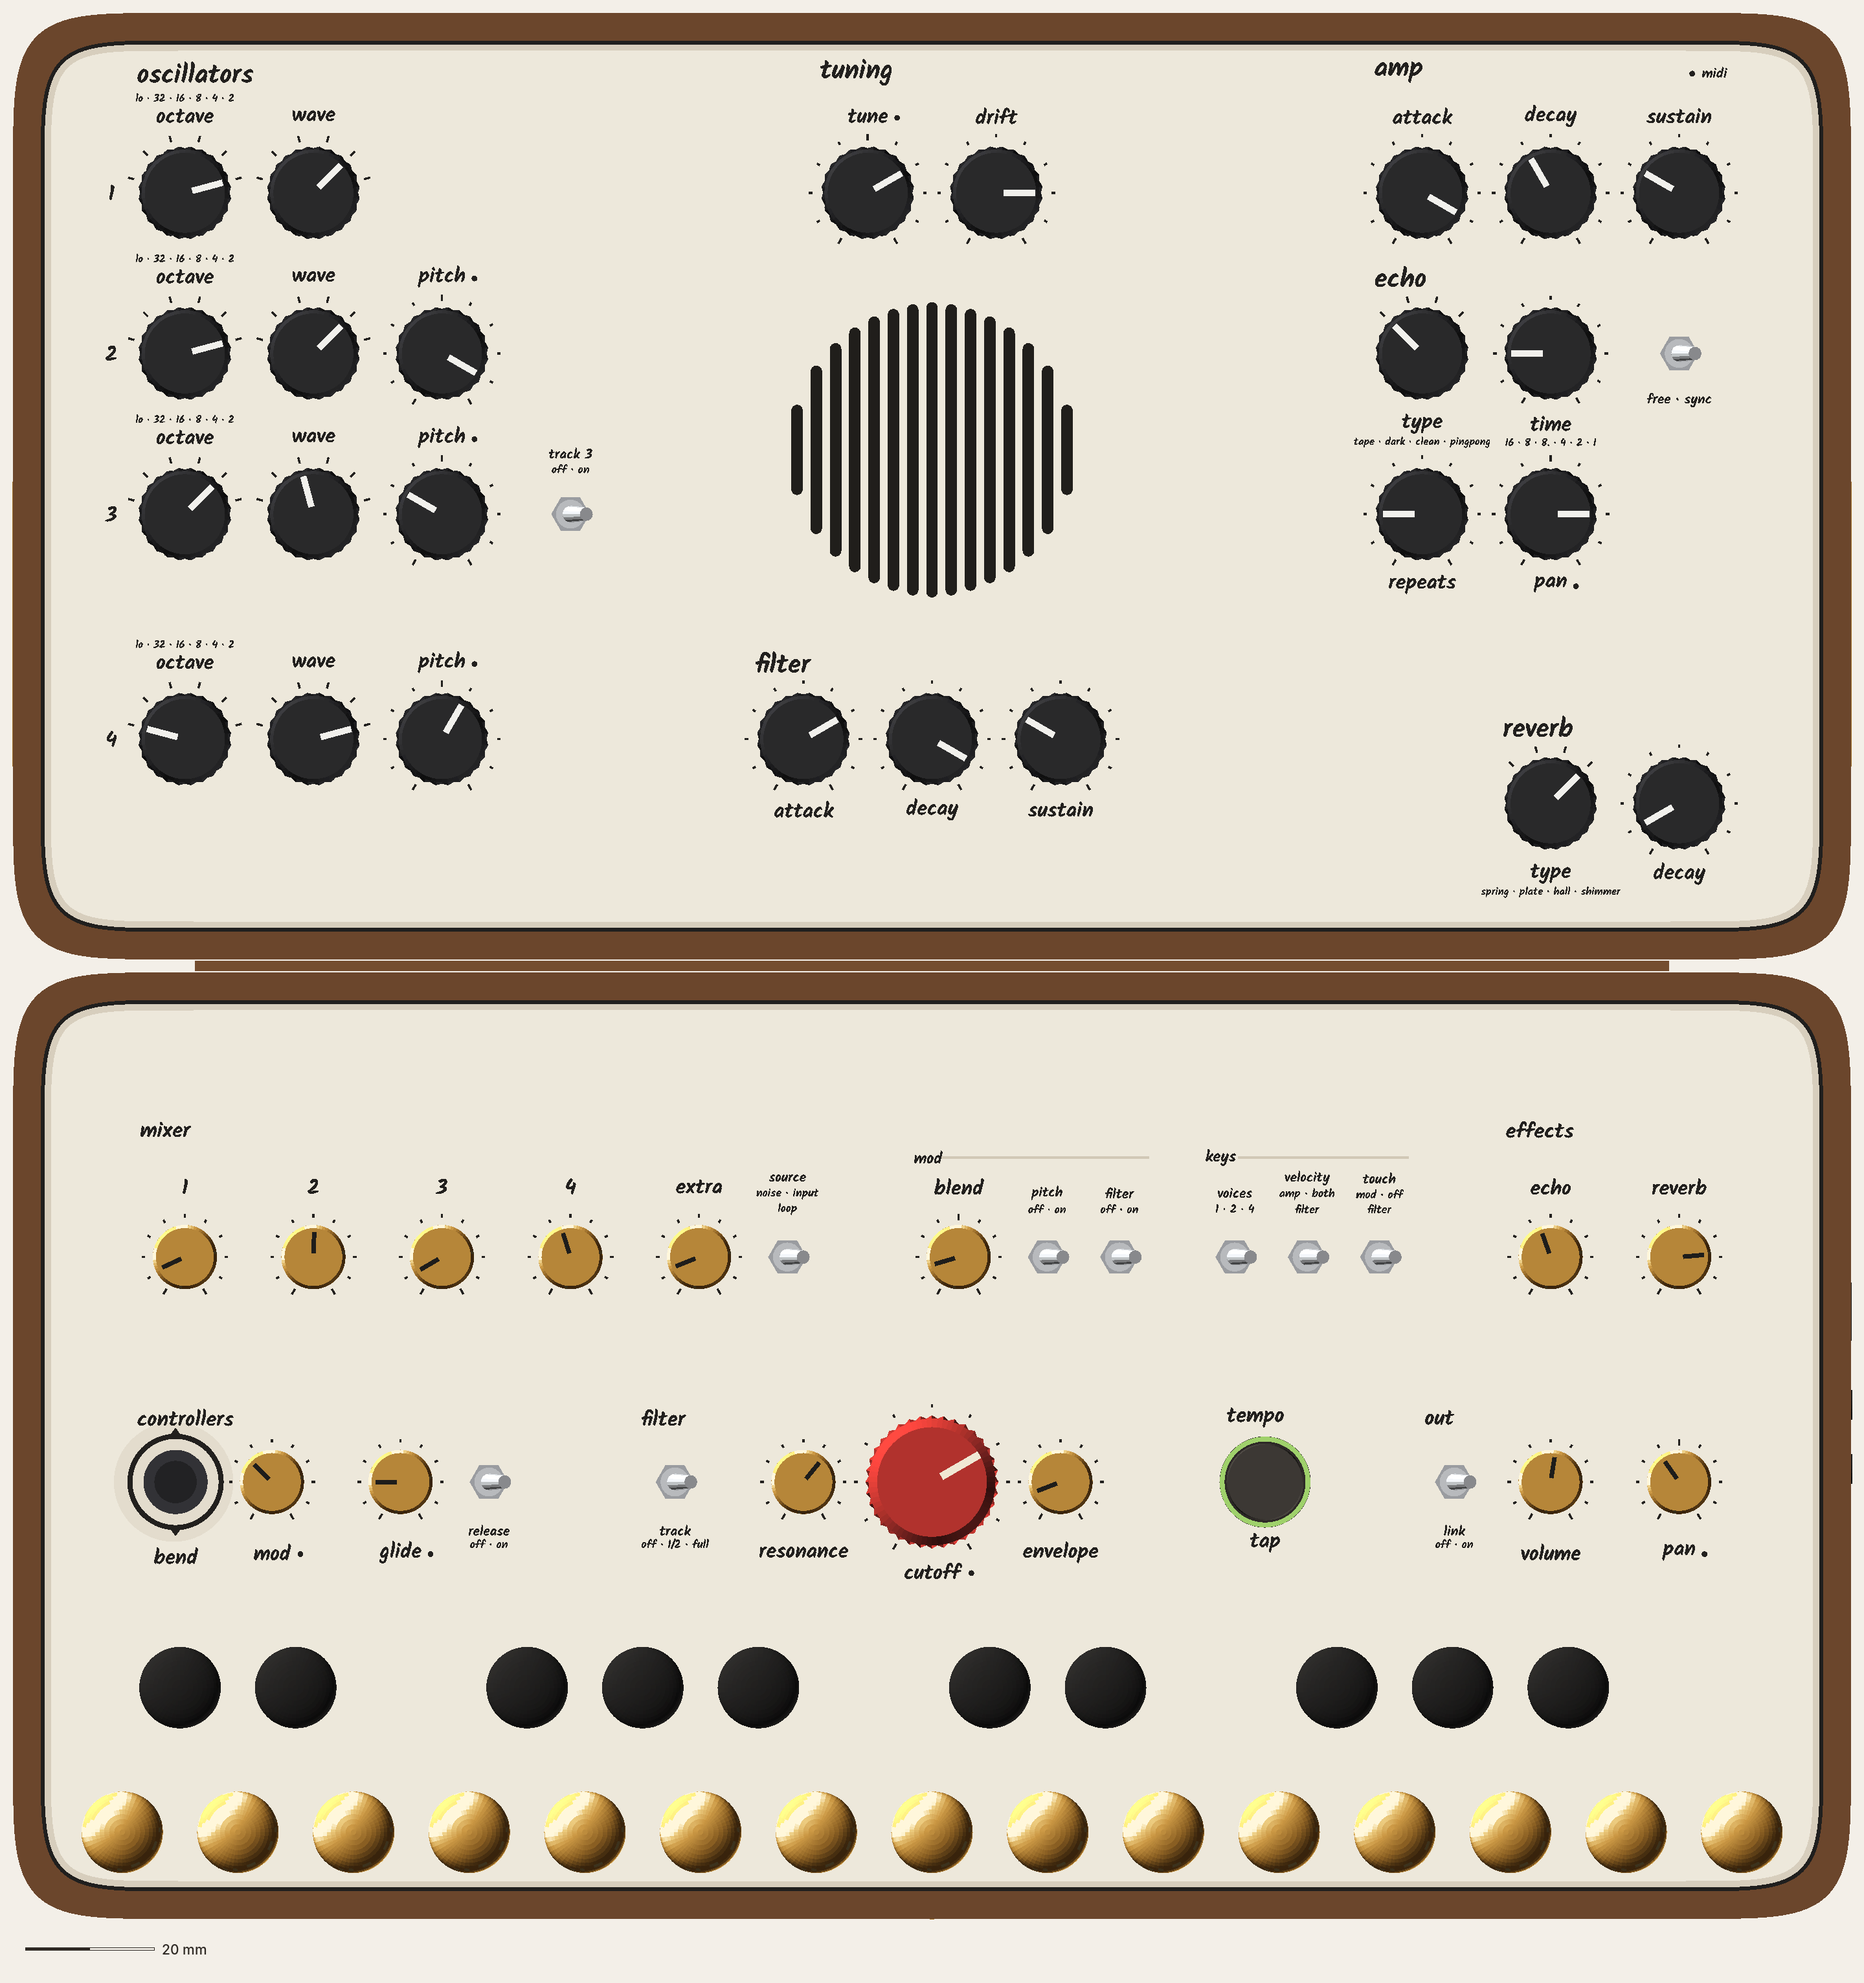
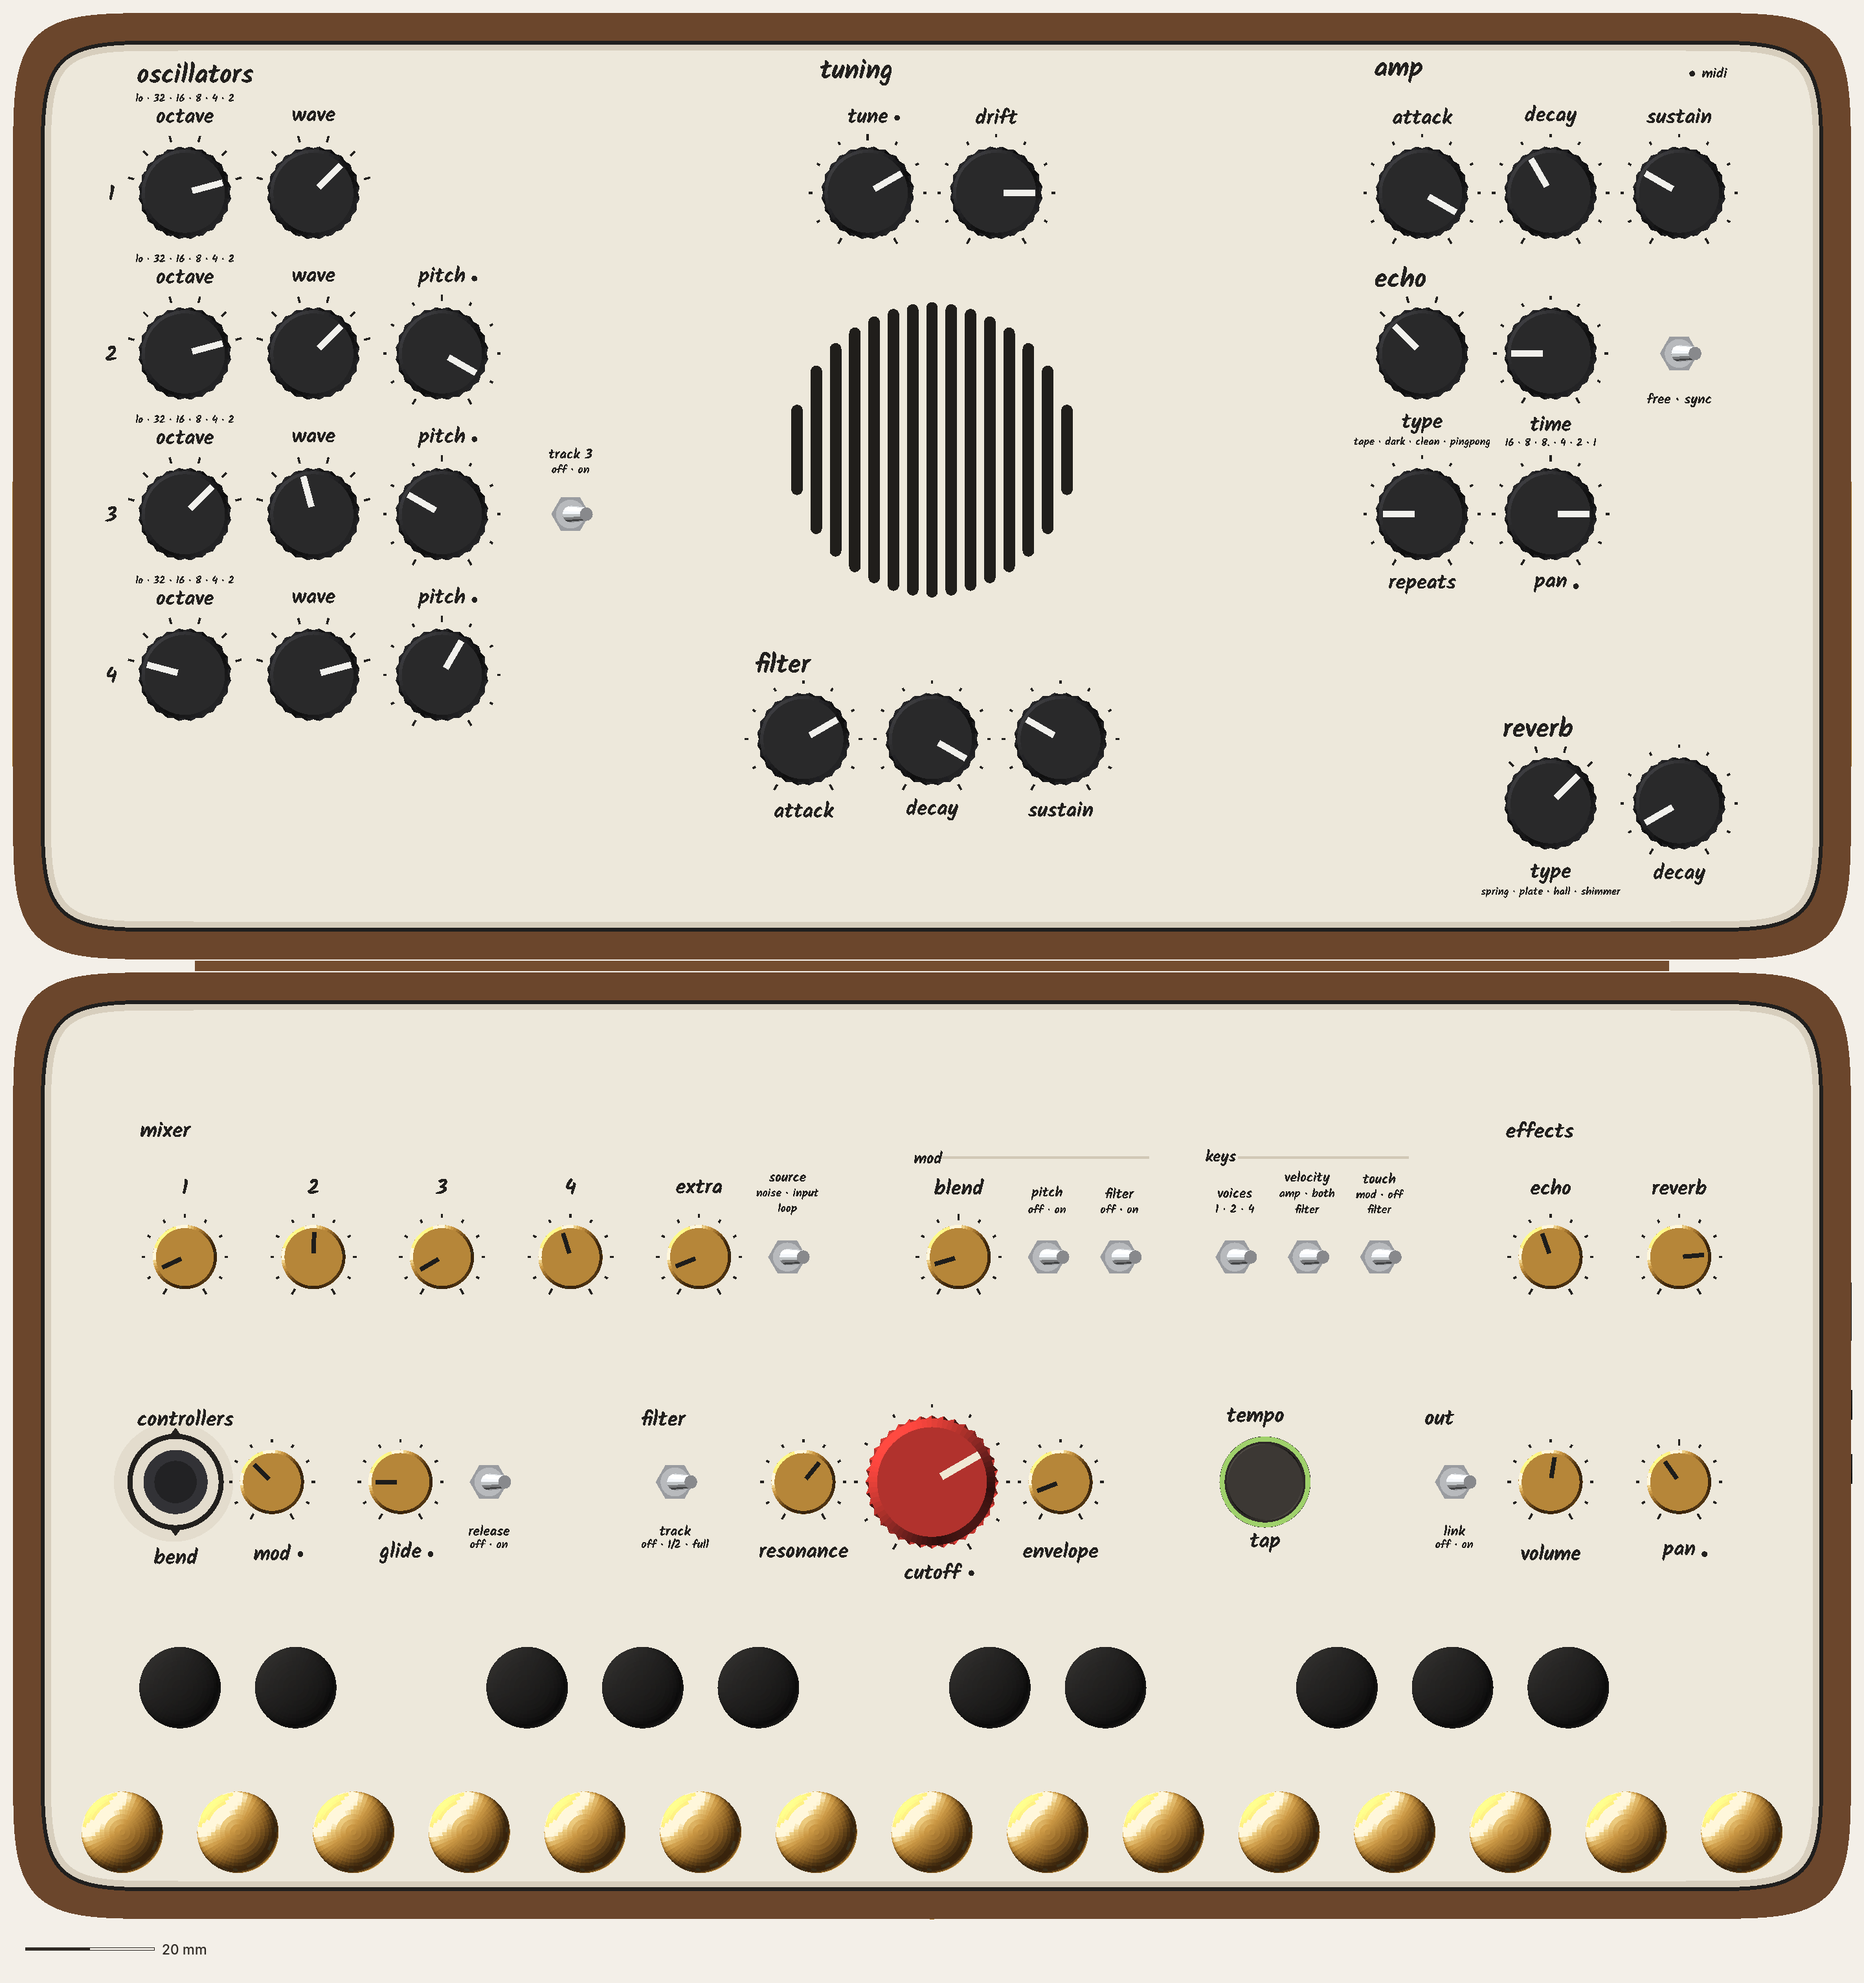
CATHEDRAL T2 (343c4d4), visual: re-rendered top and standing (oscillator rows at one spacing); real-Kalam 0

Changed region(s): [[0.0618, 0.3102, 0.2782, 0.4032]]

diff --git a/design/branches/concepts/cathedral/how-it-looks-and-feels.md b/design/branches/concepts/cathedral/how-it-looks-and-feels.md
@@ -47,7 +47,7 @@ Owner, 16:19: "yes these categories look correct. *now* let's try and lay these 
 </figure>
 <figure>
 <img src="img/cathedral-s12-T2-top-9.9px-per-mm.png" alt="Exact top view of T2 open flat at D 147.3: four oscillators stacked at the lid's left, tuning over the window, amp top right, echo and reverb on the right, filter envelope under the window; the base with the mixer 1 to 4.">
-<figcaption><b>T2</b> (4b1c3ee): 4 oscillators, double-square face, D 147.3. The spare depth is spread: the lid's bottom group drops 10 and the base's back row moves back 10. The oscillators are on the margin with the mixer exactly under them; echo in two rows. 1 gap. The stick is lowered to 9.0.</figcaption>
+<figcaption><b>T2</b> (343c4d4): 4 oscillators, double-square face, D 147.3. The four oscillator rows are all 25 apart; the spare depth goes round the filter contour and reverb. The oscillators are on the margin with the mixer exactly under them; echo in two rows. 1 gap. The stick is lowered to 9.0.</figcaption>
 </figure>
 <figure>
 <img src="img/cathedral-s12-T3-top-9.9px-per-mm.png" alt="Exact top view of T3 open flat: three oscillators stacked at the lid's left with tuning under them, the filter contour and amp sharing the top row, echo and reverb on the right, and an open area under the window.">
